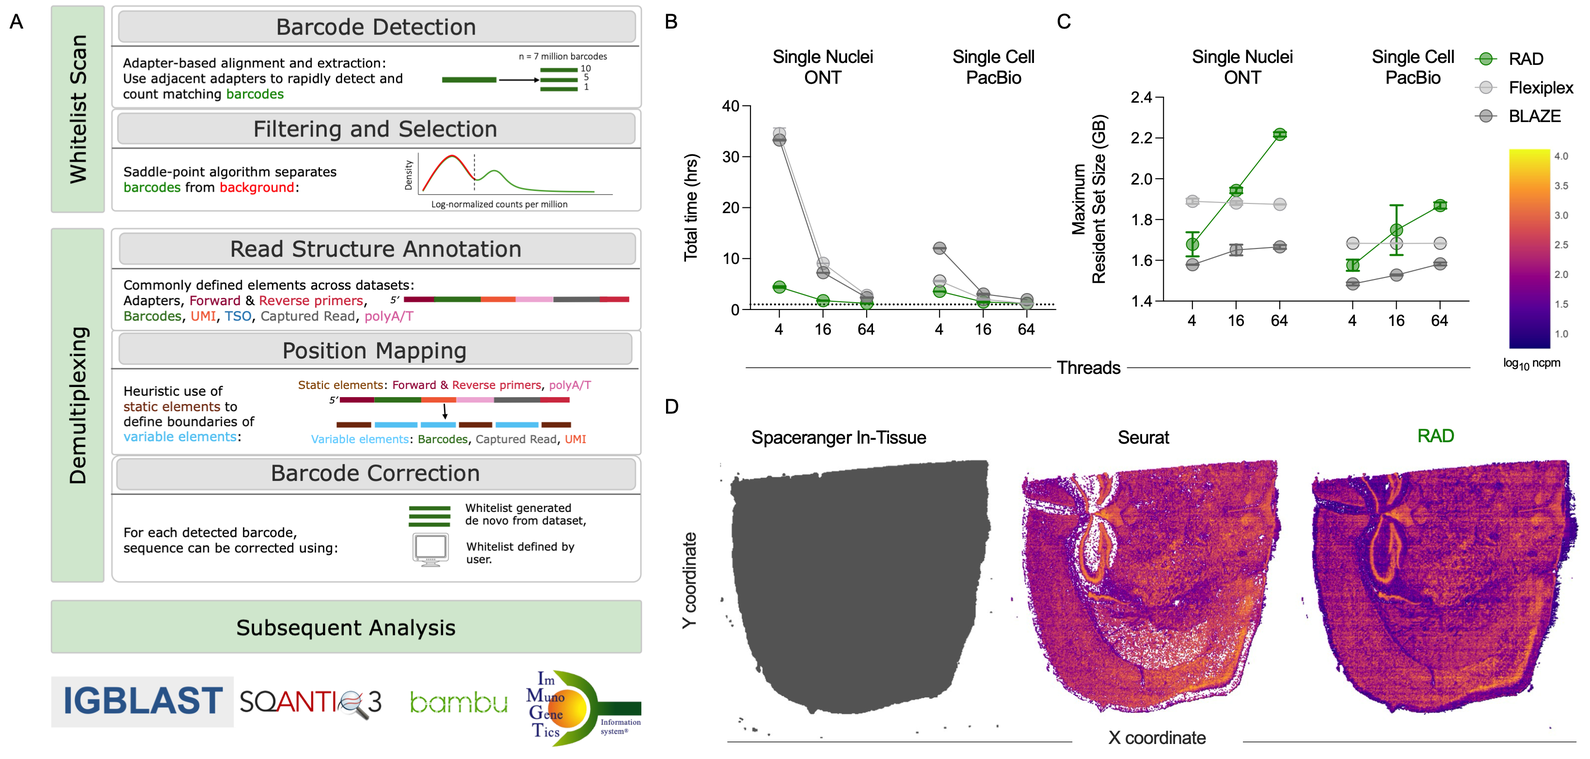
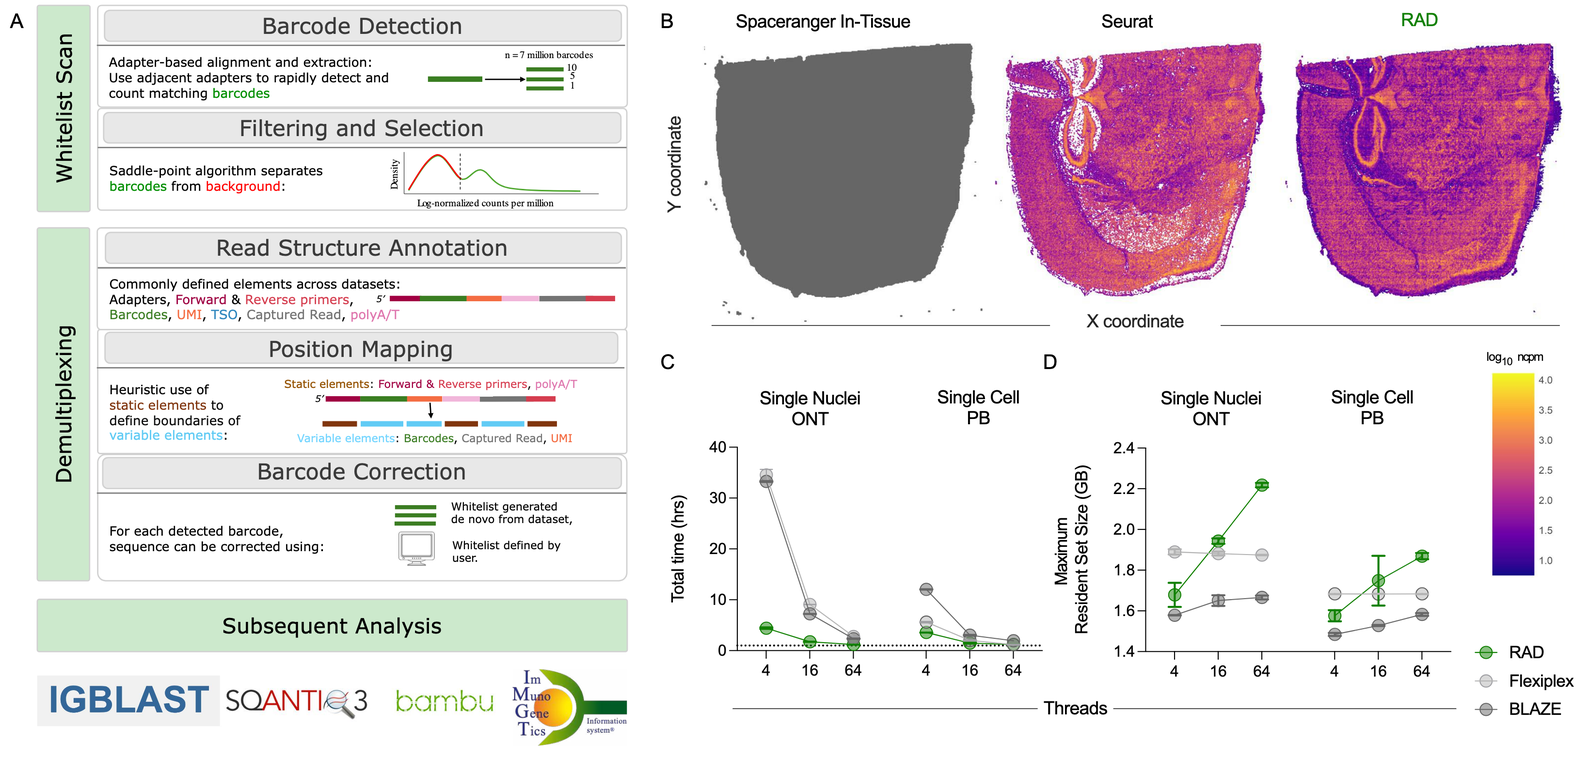
Update main figures to the November artwork

diff --git a/scripts/export_prism_figures.py b/scripts/export_prism_figures.py
@@ -98,7 +98,7 @@ def prepare(args, root):
     images.mkdir()
     rows, commands = [], []
     for expected in manifest['exports']:
-        if expected.get('import_method') == 'author-supplied saved PNG':
+        if expected.get('import_method'):
             continue
         row = dict(expected)
         source = (args.source_dir / row['source_file']).resolve()
@@ -139,13 +139,13 @@ def verify(args, root):
     def identity(row):
         return row['source_file'], row['image'], row['layout_id']
     retained = [dict(row) for row in manifest['exports']
-                if row.get('import_method') == 'author-supplied saved PNG']
+                if row.get('import_method')]
     for row in retained:
         image = repository_path(root, row['image'])
         if sha256(image) != row['image_sha256']:
-            raise ValueError('Saved PNG changed: ' + row['image'])
+            raise ValueError('Imported PNG changed: ' + row['image'])
     expected = {identity(row): row for row in manifest['exports']
-                if row.get('import_method') != 'author-supplied saved PNG'}
+                if not row.get('import_method')}
     inventory = [identity(row) for row in plan['exports']]
     if not inventory or len(set(inventory)) != len(inventory) or set(inventory) != set(expected):
         raise ValueError('The export plan must contain every re-exportable Prism figure exactly once')
@@ -174,14 +174,14 @@ def verify(args, root):
         public.append({key: value for key, value in row.items()
                        if key not in ['source_path', 'copy_path', 'staged_image', 'repository_source']})
     by_image = {row['image']: row for row in public}
-    public = [row if row.get('import_method') == 'author-supplied saved PNG'
+    public = [row if row.get('import_method')
               else by_image[row['image']] for row in manifest['exports']]
     report = dict(exporter='GraphPad Prism', exporter_version=version, format='PNG',
                   export_script_sha256=sha256(work / 'export.pzc'), exports=public)
     (work / 'verification.json').write_text(json.dumps(report, indent=2) + '\n')
     if not args.check_only:
         (root / 'source_data/prism_exports.json').write_text(json.dumps(report, indent=2) + '\n')
-    print('Verified {} Prism exports and preserved {} saved PNGs; all hashes match'.format(len(rows), len(retained)))
+    print('Verified {} Prism exports and preserved {} imported PNGs; all hashes match'.format(len(rows), len(retained)))
 
 
 def main():

diff --git a/docs/current_figure_legends.md b/docs/current_figure_legends.md
@@ -2,19 +2,19 @@
 
 ## Figure 1
 
-Figure 1. RAD is a flexible, efficient, and broadly applicable tool for demultiplexing single-cell long read sequencing data. A. A schematic of RAD workflow. B-C. Total processing time (B) and maximum memory usage (C) for single-nucleus Oxford Nanopore Technologies (ONT) and single-cell Pacific Biosciences (PB, PacBio) LongBench datasets. D. Visualization of valid barcode spots (gray) determined by SpaceRanger (in_tissue metadata of gene expression output) from Visium HD spatial transcriptomic data (left) and log-transformed normalized read counts (log10 ncpm) per 16-µm bin for Percula counts displayed in Seurat (center) and RAD (right) processed data.
+Figure 1. RAD is a flexible, efficient, and broadly applicable tool for demultiplexing single-cell long read sequencing data. A. A schematic of RAD workflow. B. Space Ranger in-tissue bins (left) and log-transformed normalized read counts (log₁₀ ncpm) per 16-µm Visium HD bin for Percula counts displayed in Seurat (center) and RAD (right). C–D. Total processing time (C) and peak memory (D) for the LongBench single-nucleus ONT and single-cell PacBio datasets.
 
 [Figure and methods](figure_01.md)
 
 ## Figure 2
 
-Figure 2. Benchmarking performance on synthetic data. A. Schematic of synthetic data used in performance evaluation and comparison of RAD (R, green), Flexiplex (F, light gray), and BLAZE (B, dark gray) in whitelist generation, demultiplexing, and analysis tasks. B-C. Whitelist generation performance. Quantitation of the true positive, false positive, and false negative barcodes generated by each method (B), and their resulting precision, sensitivity and F1 scores (C). D-E. Demultiplexing performance on native barcodes. Total read count (D), with the additional Flexiplex native assignments obtained with the full 5,000-barcode truth list outlined in red, and read depth (E) captured for native barcodes by each tool. F-H. Demultiplexing performance on error-corrected barcodes. The pies show the proportions of corrected reads assigned to their source barcode or to a different barcode (F). For correct (G) and incorrect (H) assignments, the upper panels show total read counts and the lower panels show reads per barcode for each tool. Statistical significance determined by one-way ANOVA (****p < 0.0001).
+Figure 2. Benchmarking performance on synthetic data. A. Schematic of synthetic data used in performance evaluation and comparison of RAD (R, green), Flexiplex (F, light gray), and BLAZE (B, dark gray) in whitelist generation, demultiplexing, and analysis tasks. B-C. Whitelist generation performance. Quantitation of the true positive, false positive, and false negative barcodes generated by each method (B), and their resulting precision, sensitivity and F1 scores (C). D-E. Demultiplexing performance on native barcodes. Total reads assigned without barcode correction (D) and reads per barcode (E). F-H. Demultiplexing performance on error-corrected barcodes. The pies show the proportions of corrected reads assigned to their source barcode or to a different barcode (F). For correct (G) and incorrect (H) assignments, the upper panels show total read counts and the lower panels show reads per barcode for each tool. Red lines mark medians in E and the lower plots of G and H. Kruskal–Wallis tests followed by Dunn comparisons against RAD gave adjusted P < 0.0001 for the marked comparisons.
 
 [Figure and methods](figure_02.md)
 
 ## Figure 3
 
-Figure 3. Adaptive whitelisting provides high fidelity barcode identification and correction. A-C. Characterization of false positive barcode assignment rate. Using three datasets, random, size matched sets of “off-list” barcodes were provided as the whitelist to each tool and the rate at which reads were assigned to this list was assessed (A). Quantification of total read count (B) and read depth (C) assigned to false positive barcodes by each tool. Four asterisks indicate P < 0.0001. D-G. Barcode correction outcomes (D). Using the LongBench dataset, the total read counts (E), the read depth (F), and the percentage of reads per barcode (G) derived from corrected off-list or the two failure modes were quantified for each tool.
+Figure 3. Adaptive whitelisting provides high fidelity barcode identification and correction. A-C. Characterization of false positive barcode assignment rate. Using three datasets, random, size matched sets of “off-list” barcodes were provided as the whitelist to each tool and the rate at which reads were assigned to this list was assessed (A). Quantification of total read count (B) and read depth (C) assigned to false positive barcodes by each tool. Panel B uses a two-way repeated-measures ANOVA, matched by target-list replicate within dataset, with Dunnett comparisons against RAD. Panel C uses separate one-way repeated-measures ANOVAs, matched by target barcode within dataset. Four asterisks indicate adjusted P < 0.0001. D-G. Barcode correction outcomes (D). Using the LongBench dataset, the total read counts (E), the read depth (F), and the percentage of reads per barcode (G) derived from corrected off-list or the two failure modes were quantified for each tool.
 
 Corrected off-list assignments change a source barcode outside the chemistry catalog to a tool-selected target. Failure Mode 1 changes a source barcode in the matched Cell Ranger filtered reference to a different barcode in that reference that the tool selected. Failure Mode 2 changes a catalog-valid source barcode outside the filtered reference to a tool-selected target.
 
@@ -28,19 +28,19 @@ Figure 4. High performance across diverse datasets and read architectures. Long 
 
 ## Figure 5
 
-Figure 5. Benchmarking RAD performance on data with complex read structures. A-F. Performance of each tool in demultiplexing and mapping RAGE-seq-derived immune cell receptor reads when applied to a mixed pool of immune cells with distinct receptors. Input receptor classes (A). Comparison of total cells detected by RAD (R, green), Flexiplex (F, light gray), and BLAZE (B, dark gray) (B), number of cells of each type (C), and the number of BCR and TCR reads mapped (D) by each tool. Number of reads with native or corrected barcodes (E) and total assigned reads per barcode (F) for each cell population and tool. Statistical significance by paired two-tailed t-test (****p<0.0001). G-H. Performance of RAD (green) and FLAMESv2 (gray) in demultiplexing LR-Split-seq data. Number of assigned reads in the LR-Split-seq dataset, requiring all three whitelist-matched barcode components per read (G). Long read and short-read UMI counts per cell were compared for myoblast cells, myoblast nuclei, and myotube nuclei, separately for each tool (H). Dotted lines represent identity (x = y). Solid lines are least-squares fits.
+Figure 5. Benchmarking RAD performance on data with complex read structures. A-F. Performance of each tool in demultiplexing and mapping RAGE-seq-derived immune cell receptor reads when applied to a mixed pool of immune cells with distinct receptors. Input receptor classes (A). Comparison of total cells detected by RAD (R, green), Flexiplex (F, light gray), and BLAZE (B, dark gray) (B), number of cells of each type (C), and the number of BCR and TCR reads mapped (D) by each tool. Number of reads with native or corrected barcodes (E) and total assigned reads per barcode (F) for each cell population and tool. Statistical significance by paired two-tailed t-test (****p<0.0001). G-H. Performance of RAD (green) and FLAMESv2 (gray) in demultiplexing LR-Split-seq data. Number of assigned reads in the LR-Split-seq dataset, requiring all three whitelist-matched barcode components per read (G). Long read and short-read UMI counts per cell were compared for myoblast cells, myoblast nuclei, and myotube nuclei, separately for each tool (H). Dotted lines represent identity (x = y). Solid lines are least-squares fits. Insets give Spearman correlations.
 
 [Figure and methods](figure_05.md)
 
 ## Figure 6
 
-Figure 6. Improved single nuclei data depth and cell line annotation. A. Uniform Manifold Approximation and Projection (UMAP) plot of LongBench single nuclei dataset depicting short-read unassigned (orange), and short read annotated (other colors) nuclei per cell line. B. Performance of each tool in identifying short read-annotated (left) and short read-un-annotated (center) nuclei, with counts by cell line and genotype assignment outcome (right). C. Total number of nuclei identified by each tool per cell line. Statistical significance was assessed by one-way repeated-measures ANOVA, matched by cell line, with Geisser–Greenhouse correction and Dunnett comparisons against RAD.
+Figure 6. Improved single nuclei data depth and cell line annotation. A. Uniform Manifold Approximation and Projection (UMAP) plot of LongBench single nuclei dataset depicting short-read unassigned (orange), and short read annotated (other colors) nuclei per cell line. B. Performance of each tool in identifying short read-annotated (left) and short read-un-annotated (center) nuclei, with counts by cell line and genotype assignment outcome (right). Insets show the percentage of short-read annotated nuclei assigned by each tool and the number of additional annotations among the 6,171 short-read unassigned nuclei. C. Total number of nuclei identified by each tool per cell line. Statistical significance was assessed by one-way repeated-measures ANOVA, matched by cell line, with Geisser–Greenhouse correction and Dunnett comparisons against RAD.
 
 [Figure and methods](figure_06.md)
 
 ## Figure 7
 
-Figure 7. Faithful and confident identification of differentially-expressed genes. A. Venn diagram depicting the overlap between Illumina-reference-supported differentially expressed genes recovered by each tool. B. Volcano plot depicting the fold change and confidence (FDR, False Discovery Rate) of differences in gene expression between H526 and H146 cell lines. Genes identified with greatest confidence (FDR < 10⁻²⁰) in Flexiplex or BLAZE are identified by name. Genes identified as key markers of small cell lung cancer (SCLC) types -A and SCLC-P, are distinguished by transcriptional regulators, ASCL1 and POU2F3 (red). C. Scatterplot of confidence in expression differences between BLAZE (x-axis) other tools (y-axis) for genes that are overexpressed in H146 (top) and H526 (bottom) nuclei, respectively. Red line indicates unity and slopes of best fit lines for RAD and Flexiplex are listed in inset. D. Accuracy of differentially expressed gene identification for each tool (F1 scores) as compared to ground truth, as defined by short read data across a sweep of fold-change (x-axis) and FDR (y-axis) cutoff thresholds.
+Figure 7. Faithful and confident identification of differentially-expressed genes. A. Venn diagram depicting the overlap between Illumina-reference-supported differentially expressed genes recovered by each tool. The inset gives sensitivity, precision, and F1 from the common-gene analysis. B. Volcano plot depicting the fold change and confidence (FDR, False Discovery Rate) of differences in gene expression between H526 and H146 cell lines. Genes identified with greatest confidence (FDR < 10⁻²⁰) in Flexiplex or BLAZE are identified by name. Genes identified as key markers of small cell lung cancer (SCLC) types -A and SCLC-P, are distinguished by transcriptional regulators, ASCL1 and POU2F3 (red). C. Scatterplot of confidence in expression differences between BLAZE (x-axis) other tools (y-axis) for genes that are overexpressed in H146 (top) and H526 (bottom) nuclei, respectively. Red line indicates unity and slopes of best fit lines for RAD and Flexiplex are listed in inset. D. Accuracy of differentially expressed gene identification for each tool (F1 scores) as compared to ground truth, as defined by short read data across a sweep of fold-change (x-axis) and FDR (y-axis) cutoff thresholds.
 
 [Figure and methods](figure_07.md)
 

diff --git a/docs/figure_02.md b/docs/figure_02.md
@@ -49,14 +49,13 @@ For each Nanopore2023 quality shift, BLAZE recalculated how many extracted barco
 
 | Plotted data | Tool and version | Input and assignment settings |
 |---|---|---|
-| RAD assignment panels | RAD 1.0.2; `24d5ce47e172222c96cd7dd19e94758d32aa5009` | Uniform Q20; 3v3 layout with a 12-base UMI; the same 5,000 truth barcodes supplied as both the global and custom lists; offensive correction, mutation limits 2/2, chunks of 5,000, 64 threads. |
+| RAD assignment panels | RAD 1.0.2; `24d5ce47e172222c96cd7dd19e94758d32aa5009` | Uniform Q20; 3v3 layout with a 12-base UMI; the complete 3v3 catalog supplied as the global list and the 5,000 source barcodes supplied as the custom list; offensive correction, mutation limits 2/2, chunks of 5,000, 64 threads. |
 | BLAZE assignment panels | BLAZE 2.6.0a0 | Previously extracted Nanopore2023 barcodes were matched with barcode distance 2, minimum Q0 and 5,015 selected targets. New candidates were appended in lexical order to the seed-0 candidate order. |
-| Flexiplex detected-list totals, correction pie, and panel H distribution | Flexiplex 1.02.6 with raw-barcode diagnostic output | Uniform Q20; 3v3, flank distance 8, barcode distance 2, 16 tool threads; 3,004 discovered targets and four compression threads. |
-| Flexiplex per-barcode distributions in panels E and G | Flexiplex 1.02.6 with raw-barcode diagnostic output | Uniform Q20; `-d 10x3v3 -f 8 -e 2 -k TRUTH5000 -p 28`; all 5,000 source barcodes supplied, with four decompression and four compression threads. |
+| Flexiplex assignment panels | Flexiplex 1.02.6 with raw-barcode diagnostic output | Uniform Q20; 3v3, flank distance 8, barcode distance 2, 16 tool threads; 3,004 discovered targets and four compression threads. |
 
-[RAD command](../source_data/figure_02/plotted_assignment/producing_evidence/RAD_command.sh) · [RAD layout](../source_data/figure_02/plotted_assignment/producing_evidence/RAD_input_layout.csv) · [RAD and Flexiplex runs](../source_data/figure_02/plotted_assignment/producing_evidence/) · [Flexiplex diagnostic build](../vendor/flexiplex-audit/) · [BLAZE assignment record](../source_data/figure_02/producing_evidence/assignment_BLAZE_provenance.json)
+[RAD command](../source_data/figure_02/producing_evidence/assignment_RAD_run.json) · [RAD layout](../source_data/figure_02/producing_evidence/assignment_RAD_input_layout.csv) · [Flexiplex assignment command](../source_data/figure_02/producing_evidence/assignment_Flexiplex_command.sh) · [Flexiplex diagnostic build](../vendor/flexiplex-audit/) · [BLAZE assignment record](../source_data/figure_02/producing_evidence/assignment_BLAZE_provenance.json)
 
-Panel D reports native-correct reads from the assignment runs listed above. The red Flexiplex increment is the additional native-correct recovery when the complete truth list is supplied. Panels E and G display per-barcode counts for the 5,000 truth targets. Their Flexiplex distributions use the supplied-truth-list run. Panel H uses the discovered Flexiplex list and the truth-supported BLAZE targets. The [per-panel tables](../source_data/figure_02/plotted_assignment/) identify each graph's assignment condition and barcode identities.
+Panel D reports native-correct reads. The distributions in E, G and H contain 5,000 truth targets each for RAD and BLAZE and 3,004 discovered targets for Flexiplex. Panel G’s per-barcode medians are 371 for RAD, 466 for Flexiplex and 378 for BLAZE.
 
 ## Read classification
 
@@ -66,16 +65,20 @@ An original read contributes to assignment counts when it has exactly one emitte
 
 | Assignment state | RAD | BLAZE | Flexiplex detected list |
 |---|---:|---:|---:|
-| Native correct | 667,965 | 640,957 | 463,613 |
-| Corrected correct | 1,944,306 | 1,881,358 | 1,398,700 |
-| Corrected incorrect | 191,519 | 133,074 | 281,696 |
+| Native correct | 667,984 | 640,957 | 463,613 |
+| Corrected correct | 1,846,854 | 1,881,358 | 1,398,700 |
+| Corrected incorrect | 179,509 | 133,074 | 281,696 |
 | Native incorrect | 571 | 764 | 381 |
-| Multiple outputs excluded | 9,048 | 0 | 364 |
-| Unassigned | 2,180,396 | 2,337,652 | 2,849,051 |
+| Multiple outputs excluded | 8,653 | 0 | 364 |
+| No emitted record | 2,290,234 | 2,337,652 | 2,849,051 |
 
-Each column partitions all 4,993,805 input reads. The [full-catalog RAD run](../source_data/figure_02/producing_evidence/assignment_RAD_run.json) used the 3v3 catalog as the global list and the source barcodes as the custom list. Its counts are reported in a [separate assignment summary](../source_data/figure_02/assignment_RAD_summary.json). Panel F's correction-only pies use corrected-correct plus corrected-incorrect assignments as their denominator. The total bars in panels G and H use the corresponding corrected category. Per-barcode distributions retain zero counts for selected targets and blank entries for targets absent from a detected list. BLAZE's panel H distribution covers its 5,000 truth targets; assignments to its fifteen additional selected targets contribute to the total bar separately.
+Each column partitions all 4,993,805 input reads. The [RAD assignment summary](../source_data/figure_02/assignment_RAD_summary.json) combines reads without an output and reads with multiple outputs under `unassigned`. Panel F's correction-only pies use corrected-correct plus corrected-incorrect assignments as their denominator. The total bars in panels G and H use the corresponding corrected category. Per-barcode distributions retain zero counts for selected targets and blank entries for targets absent from a detected list. BLAZE's panel H distribution covers its 5,000 truth targets; assignments to its fifteen additional selected targets contribute to the total bar separately.
 
-## Reproduce the RAD assignment table
+## Reproduce the full-catalog RAD assignment table
+
+Use the [RAD command](../source_data/figure_02/producing_evidence/assignment_RAD_run.json) to assign reads. Pass the input and resulting FASTQs, the 5,000 truth barcodes and the global catalog to the [assignment scorer](../scripts/figure_02/score_rad_assignments.py).
+
+## Earlier supplied-list comparison
 
 The fixed-5,000 RAD run supplies a `record_audit.tsv.gz` table with the original read ID, known source barcode, observed barcode and assigned barcode. Recalculate the strict assignment states and all 5,000 target rows with:
 
@@ -88,7 +91,7 @@ python3 scripts/figure_02/summarize_plotted_rad_audit.py \
 
 [RAD summary](../source_data/figure_02/plotted_assignment/RAD_assignment_summary.json) · [State counts](../source_data/figure_02/plotted_assignment/RAD_assignment_states.tsv) · [Per-target counts](../source_data/figure_02/plotted_assignment/RAD_assignment_per_target.tsv)
 
-Extract the plotted tables from the Prism project.
+Extract the earlier layout with the supplied-list distributions from its Prism project.
 
 ```bash
 python3 scripts/figure_02/extract_plotted_prism.py \

diff --git a/docs/figure_01.md b/docs/figure_01.md
@@ -33,7 +33,7 @@ wall hours = (discovery seconds + demultiplexing seconds) / 3,600
 peak GB = max(discovery maxRSS, demultiplexing maxRSS) × 1,024 / 1,000,000,000
 ```
 
-The [phase table](../source_data/figure_01/accepted_phase_records.tsv) contains 108 measurements that form 54 paired repetitions. The memory plot uses the raw KiB numbers divided by one million. Multiply its coordinates by 1.024 to obtain decimal GB. Means and sample standard deviations use the three repetitions in each dataset–tool–thread condition. The [combined repetitions](../source_data/figure_01/combined_replicates.tsv) and [summary table](../source_data/figure_01/timing_summary.tsv) supply panels B and C.
+The [phase table](../source_data/figure_01/accepted_phase_records.tsv) contains 108 measurements that form 54 paired repetitions. The memory plot uses the raw KiB numbers divided by one million. Multiply its coordinates by 1.024 to obtain decimal GB. Means and sample standard deviations use the three repetitions in each dataset–tool–thread condition. The [combined repetitions](../source_data/figure_01/combined_replicates.tsv) and [summary table](../source_data/figure_01/timing_summary.tsv) supply panels C and D.
 
 The [SN-ONT/RAD/four-thread example](../data/examples/figure_01/) includes the commands and GNU-time logs for one complete repetition. Parse its measurements and combine the complete phase table with:
 
@@ -52,7 +52,7 @@ python3 scripts/revision/figures_124_steps/combine_timing.py \
 
 ## Visium HD barcode counts
 
-Panel D displays the Space Ranger `in_tissue` mask, Percula counts visualized in Seurat and RAD counts on a common 16-µm grid. RAD barcode pairs are mapped to spatial coordinates, then eight adjacent 2-µm positions along each axis are combined into one 16-µm bin. The RAD matrix contains barcode-discovery counts. [Count definition](../source_data/figure_01/producing_evidence/HD_selected_count_definition.json) · [Stage-count comparison](../source_data/figure_01/hd_stage_counts.tsv)
+Panel B displays the Space Ranger `in_tissue` mask, Percula counts visualized in Seurat and RAD counts on a common 16-µm grid. RAD barcode pairs are mapped to spatial coordinates, then eight adjacent 2-µm positions along each axis are combined into one 16-µm bin. The RAD matrix contains barcode-discovery counts. [Count definition](../source_data/figure_01/producing_evidence/HD_selected_count_definition.json) · [Stage-count comparison](../source_data/figure_01/hd_stage_counts.tsv)
 
 The complete grid contains 175,561 bins arranged as 419 × 419 positions. For PBC44593, the plotted value is `log10(RAD_count × 1,000,000 / 45,979,761)` for bins with positive counts. Its 123,658 in-tissue bin identifiers match the Space Ranger filtered barcode set. The count matrix is stored at `checkpoints/figure_01/sample_bin_matrix_16um.csv.gz`; [reference hashes](../source_data/figure_01/hd_grid_reference_sources.json) identify the raw and filtered coordinate sets.
 

diff --git a/figures/figure_03/README.md b/figures/figure_03/README.md
@@ -6,7 +6,7 @@
 
 ## Off-list experiments
 
-The totals cover all three target lists for each dataset. The per-target distribution uses replicate 1. [Totals](../../source_data/figure_03/offlist_totals.tsv) · [Per-target counts](../../source_data/figure_03/offlist_per_target.tsv.gz)
+The deposited totals cover all three target lists for each dataset. The November artwork uses different RAGE-seq values in panels B–C and different counts in several LongBench series in panels E–G. The per-target distribution uses replicate 1. [Totals](../../source_data/figure_03/offlist_totals.tsv) · [Per-target counts](../../source_data/figure_03/offlist_per_target.tsv.gz)
 
 ## LongBench correction outcomes
 

diff --git a/source_data/figure_02/README.md b/source_data/figure_02/README.md
@@ -16,6 +16,10 @@ The complete quality-sweep calculations are described in the [Nanopore2023](full
 
 ## Read assignment: panels D–H
 
+The November figure uses the [full-catalog RAD run](producing_evidence/assignment_RAD_run.json) and the 3,004-barcode Flexiplex detected list. [RAD assignment summary](assignment_RAD_summary.json) · [November run definitions](../../docs/figure_02.md#assignment-runs-and-plotted-barcode-sets)
+
+## Earlier supplied-list comparison
+
 | File | Contents |
 |---|---|
 | [assignment_states.tsv](assignment_states.tsv) | Six-state partition of all input reads for each tool |

diff --git a/docs/figure_03.md b/docs/figure_03.md
@@ -6,6 +6,8 @@ Figure 3 measures assignments to supplied barcode lists that exclude the referen
 
 ![Figure 3](../figures/figure_03/prism/figure_03.png)
 
+The November artwork uses different RAGE-seq results in panels B–C and different LongBench counts in several E–G series. The linked tables and commands describe the deposited runs.
+
 ## Supplied-list challenges
 
 ScTagger-L, LongBench SC-ONT and RAGE-seq used the same procedure.
